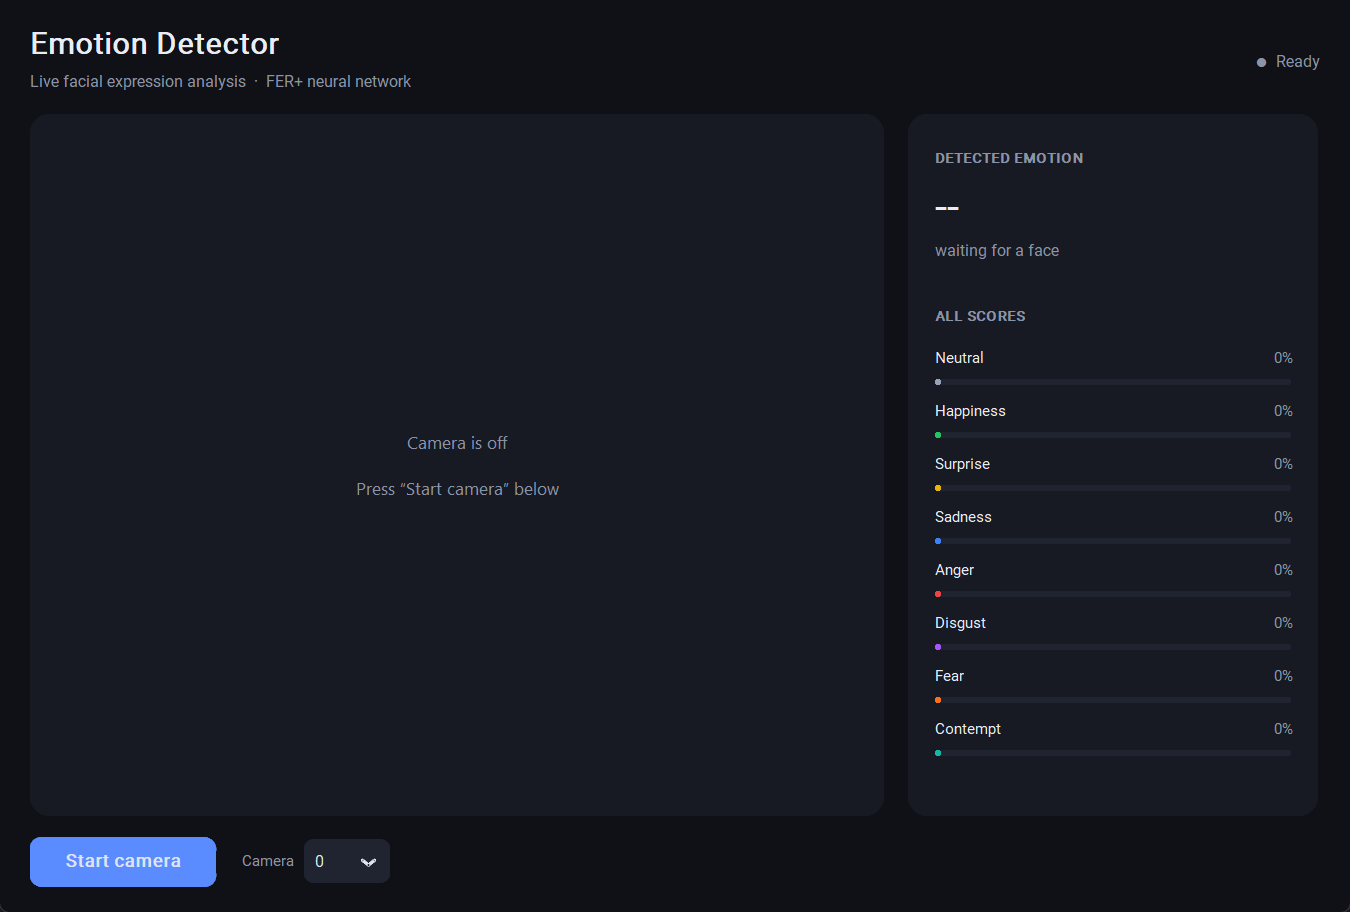
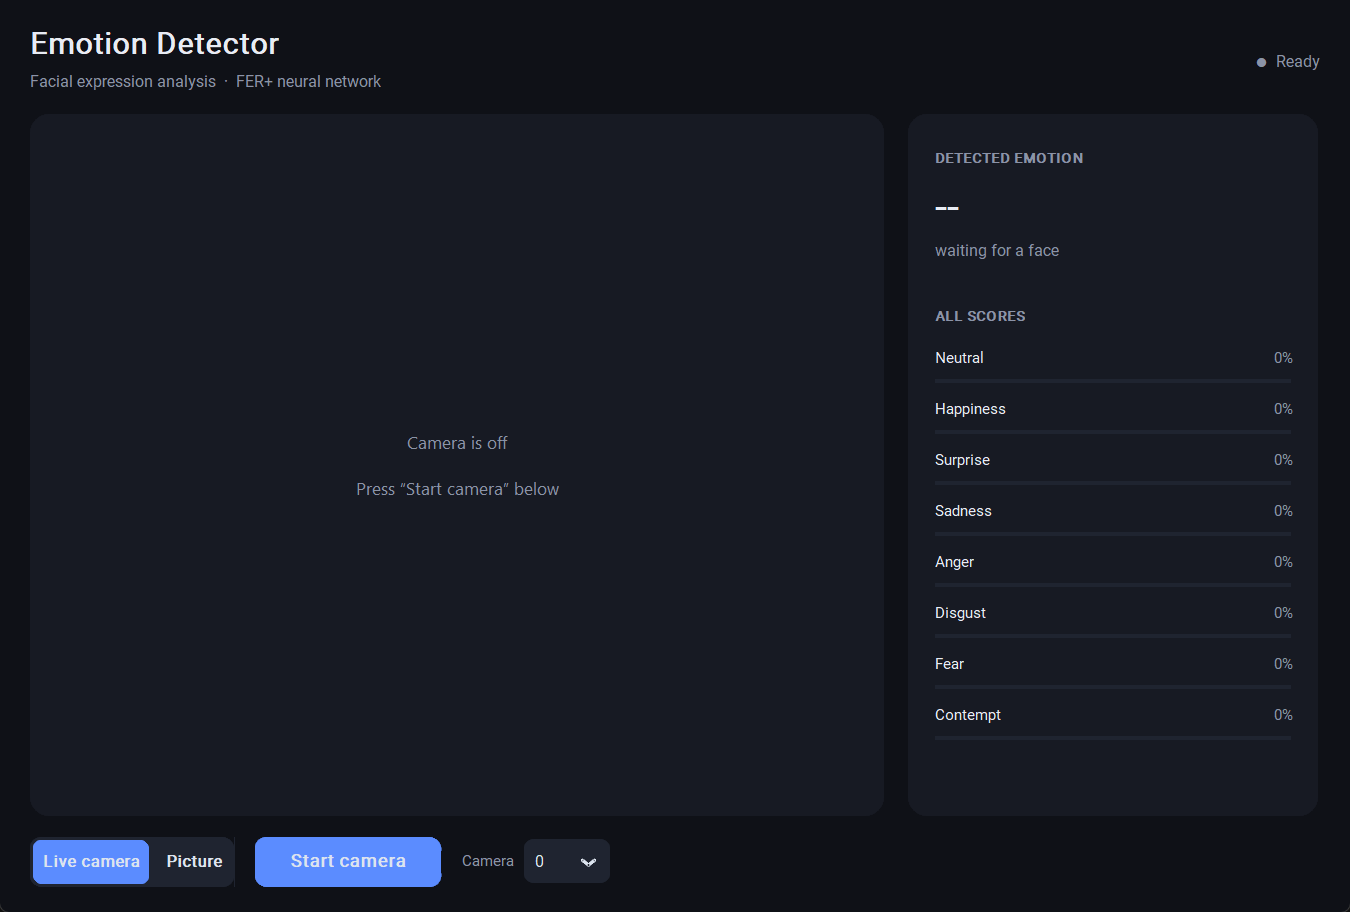
Restyle score bars: one tonal ramp, thinner, square ends
The eight emotions had eight unrelated hues, which made the panel read
like a pie chart. Each emotion now gets its own shade of a single blue,
generated by interpolating between two endpoint colours, so re-theming
means editing RAMP_LIGHT and RAMP_DARK rather than eight hex values.
The colour no longer has to identify the emotion -- it is named in words
directly beside its bar.

Bars go from 6px to 4px tall with corner_radius 0. At this thickness a
rounded cap ate most of the bar, so a low score rendered as a dot rather
than a short line.

Boxes drawn on faces deliberately do NOT follow the ramp. The panel sits
on a known dark background so any shade works there, but a photo can be
any colour: against a light background the pale end of the ramp
disappeared and the white label text on top of it was unreadable. They
use a fixed mid-tone accent instead, which stays legible either way, and
signal "this is the face being reported on" rather than which emotion it
is.

diff --git a/emotion_detector.py b/emotion_detector.py
@@ -40,17 +40,45 @@ EMOTIONS = [
     "contempt",
 ]
 
-# A colour for each emotion, used by both the GUI bars and the on-video boxes.
-# Stored as hex for the GUI; converted to BGR for OpenCV when needed.
+# Every emotion gets its own shade of one colour, rather than eight unrelated
+# hues. Eight competing colours made the panel look like a pie chart; a single
+# tonal ramp reads as one designed object, and the emotion is already named in
+# words right next to its bar, so the colour does not have to identify it.
+#
+# The ramp runs light to dark down the list. Change these two endpoints and the
+# whole app re-themes -- the bars, the big label, and the boxes drawn on faces.
+RAMP_LIGHT = "#dbe7ff"   # palest shade, used for the first emotion
+RAMP_DARK = "#3f70d6"    # deepest shade, used for the last
+
+# Boxes drawn on faces do NOT use the ramp. The panel sits on a known dark
+# background, so any shade reads well there, but a photo can be any colour at
+# all -- the pale end of the ramp disappeared against a light background, and
+# white label text on top of it was unreadable. A single mid-tone from the
+# middle of the ramp stays legible on light and dark pictures alike.
+OVERLAY_HIGHLIGHT = "#5b8cff"
+OVERLAY_MUTED = (130, 130, 130)   # already BGR: faces you have not selected
+
+
+def mix_hex(color_a: str, color_b: str, t: float) -> str:
+    """Blend two hex colours. t=0 gives color_a, t=1 gives color_b.
+
+    This is linear interpolation, the same idea as a gradient: for each of the
+    red, green and blue channels, walk t of the way from one value to the other.
+    """
+    a = color_a.lstrip("#")
+    b = color_b.lstrip("#")
+    channels = []
+    for i in (0, 2, 4):
+        start, end = int(a[i:i + 2], 16), int(b[i:i + 2], 16)
+        channels.append(round(start + (end - start) * t))
+    return "#{:02x}{:02x}{:02x}".format(*channels)
+
+
+# Spread the eight emotions evenly along the ramp. Used by the GUI bars and the
+# on-video boxes alike; converted to BGR for OpenCV where needed.
 EMOTION_COLORS = {
-    "neutral":   "#94a3b8",
-    "happiness": "#22c55e",
-    "surprise":  "#eab308",
-    "sadness":   "#3b82f6",
-    "anger":     "#ef4444",
-    "disgust":   "#a855f7",
-    "fear":      "#f97316",
-    "contempt":  "#14b8a6",
+    emotion: mix_hex(RAMP_LIGHT, RAMP_DARK, i / (len(EMOTIONS) - 1))
+    for i, emotion in enumerate(EMOTIONS)
 }
 
 MODEL_PATH = os.path.join(
@@ -319,14 +347,12 @@ def draw_overlay(
     for i, face in enumerate(faces):
         x, y, w, h = face.x, face.y, face.w, face.h
         chosen = (i == highlight)
-        color = hex_to_bgr(face.color)
         thickness = 3 if chosen else 1
 
-        # Unpicked faces are drawn in grey. Colour carries meaning here -- it
-        # tells you the emotion -- so spending it on faces the panel is not
-        # talking about would be misleading.
-        if not chosen:
-            color = (130, 130, 130)
+        # The selected face is drawn in the accent; everyone else in grey. What
+        # the colour signals here is "this is the face being reported on", not
+        # which emotion it is -- the label already spells that out in words.
+        color = hex_to_bgr(OVERLAY_HIGHLIGHT) if chosen else OVERLAY_MUTED
 
         cv2.rectangle(frame, (x, y), (x + w, y + h), color, thickness)
 

diff --git a/app.py b/app.py
@@ -323,10 +323,14 @@ class EmotionApp(ctk.CTk):
             )
             percent.grid(row=0, column=1, sticky="e")
 
+            # Square ends, not rounded: corner_radius=0. At this thickness a
+            # rounded cap eats most of the bar, so a 2% score renders as a dot
+            # rather than a short line.
             bar = ctk.CTkProgressBar(
                 line,
-                height=6,
-                corner_radius=3,
+                height=4,
+                corner_radius=0,
+                border_width=0,
                 fg_color=BG_INSET,
                 progress_color=EMOTION_COLORS[emotion],
             )

diff --git a/README.md b/README.md
@@ -212,7 +212,12 @@ Small edits that teach you a lot:
   jittery per-frame output, or `20` for a very slow, heavily-averaged reading.
 - **`minNeighbors=6`** in `detect()`. Lower it to `3` and the detector finds more
   faces but also starts seeing faces in doorknobs and patterned shirts.
-- **`EMOTION_COLORS`** at the top of `emotion_detector.py`. Change the theme.
+- **`RAMP_LIGHT` and `RAMP_DARK`** at the top of `emotion_detector.py`. Every
+  emotion's colour is a blend between these two, spread evenly down the list, so
+  changing just those two values re-themes the whole panel. Try `#ffe6c7` and
+  `#c2410c` for a warm palette. The boxes drawn on faces use `OVERLAY_HIGHLIGHT`
+  instead — deliberately separate, because a photo can be any colour and the
+  pale end of the ramp vanishes against a light background.
 - **`DETECT_SCALE = 0.5`**. Set it to `1.0` for slightly more precise boxes at
   roughly 25% more CPU cost.
 - Add a **screenshot button** that saves the current frame with `cv2.imwrite`.
